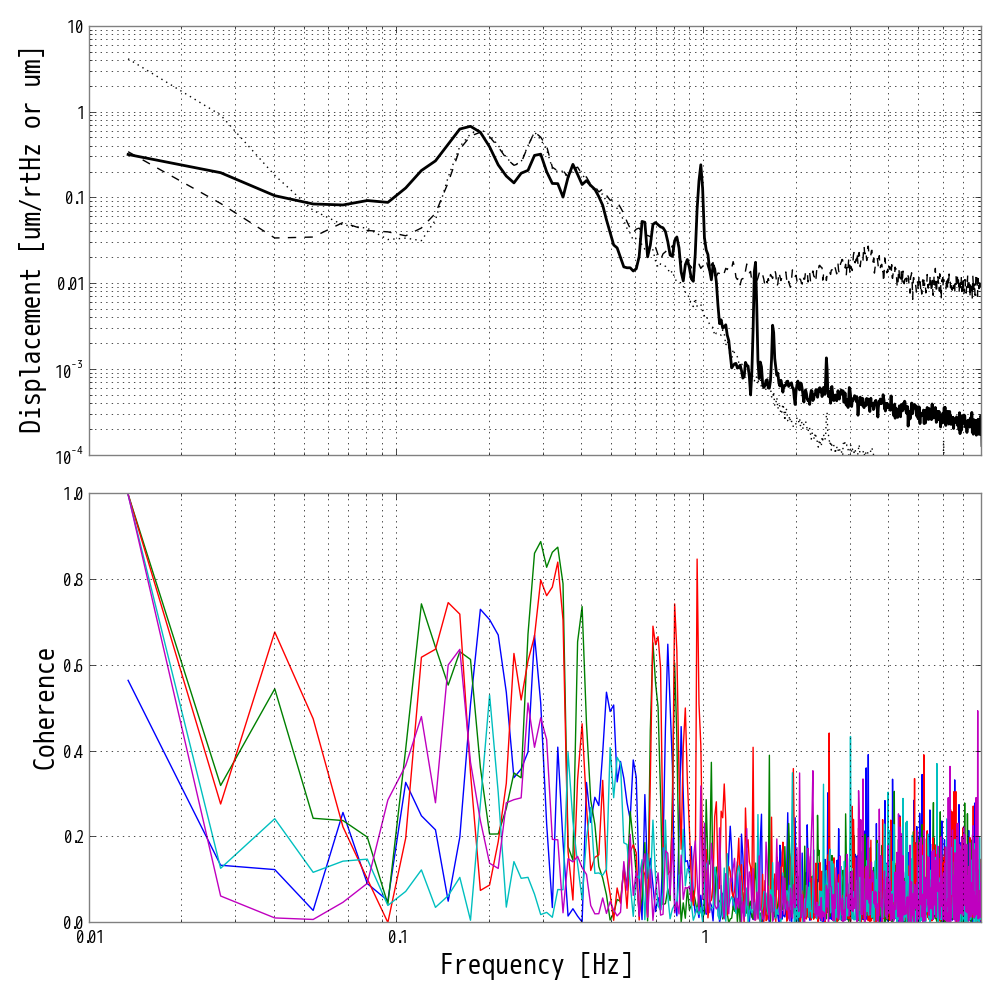
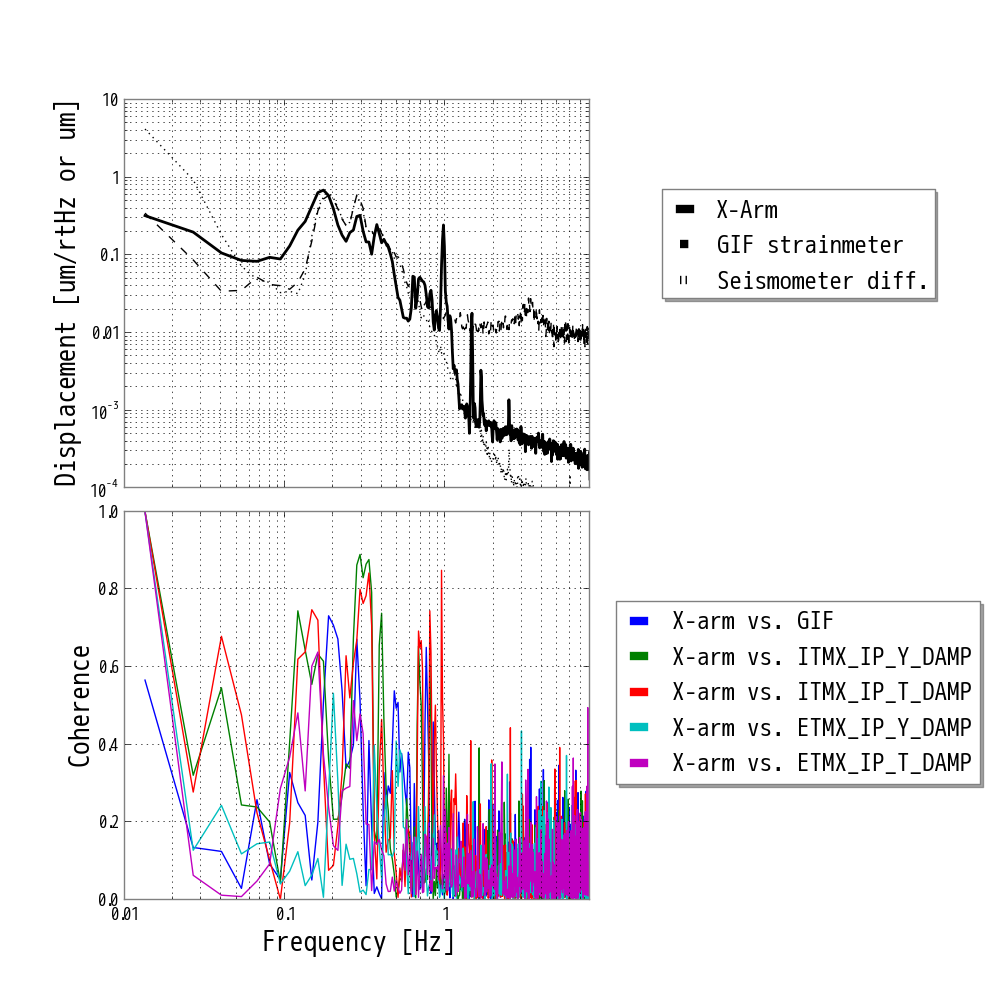
Update

Changed region(s): [[0.0, 0.0, 0.992, 0.992], [0.062, 0.806, 0.124, 0.868], [0.589, 0.961, 0.62, 0.992]]

diff --git a/alcs/sensor_correction_trial/main.py b/alcs/sensor_correction_trial/main.py
@@ -202,7 +202,7 @@ ax1.loglog(diff_seis,label='Seismometer diff.',color='k',linestyle=':',linewidth
 ax1.set_ylabel('Displacement [um/rtHz or um]',fontsize=20)
 chartBox = ax1.get_position()
 ax1.set_position([chartBox.x0, chartBox.y0, chartBox.width*0.6, chartBox.height])
-ax1.legend(loc='upper center', bbox_to_anchor=(1.45, 0.8), shadow=True, ncol=1,fontsize=20)
+ax1.legend(loc='upper center', bbox_to_anchor=(1.45, 0.8), shadow=True, ncol=1,fontsize=18)
 #ax1.legend(fontsize=20,loc='lower left')
 ax1.set_ylim(1e-4,10)
 ax2.set_ylabel('Coherence',fontsize=20)
@@ -215,11 +215,11 @@ ax2.semilogx(coh_xarm2etmxipy,label='X-arm vs. ETMX_IP_Y_DAMP',linewidth=1)
 ax2.semilogx(coh_xarm2etmxipt,label='X-arm vs. ETMX_IP_T_DAMP',linewidth=1)
 chartBox = ax2.get_position()
 ax2.set_position([chartBox.x0, chartBox.y0, chartBox.width*0.6, chartBox.height])
-ax2.legend(loc='upper center', bbox_to_anchor=(1.45, 0.8), shadow=True, ncol=1,fontsize=20)
+ax2.legend(loc='upper center', bbox_to_anchor=(1.45, 0.8), shadow=True, ncol=1,fontsize=18)
 #ax2.legend(fontsize=20,loc='upper right',alpha=0.4)
 ax2.set_xlabel('Frequency [Hz]',fontsize=20)
 ax2.set_ylim(0,1)
 ax2.set_xlim(1e-2,8)
-plt.tight_layout()
+#plt.tight_layout()
 plt.savefig('./{0}/{1}_commseis.png'.format(hoge.split('_')[0],hoge))
 plt.close()
